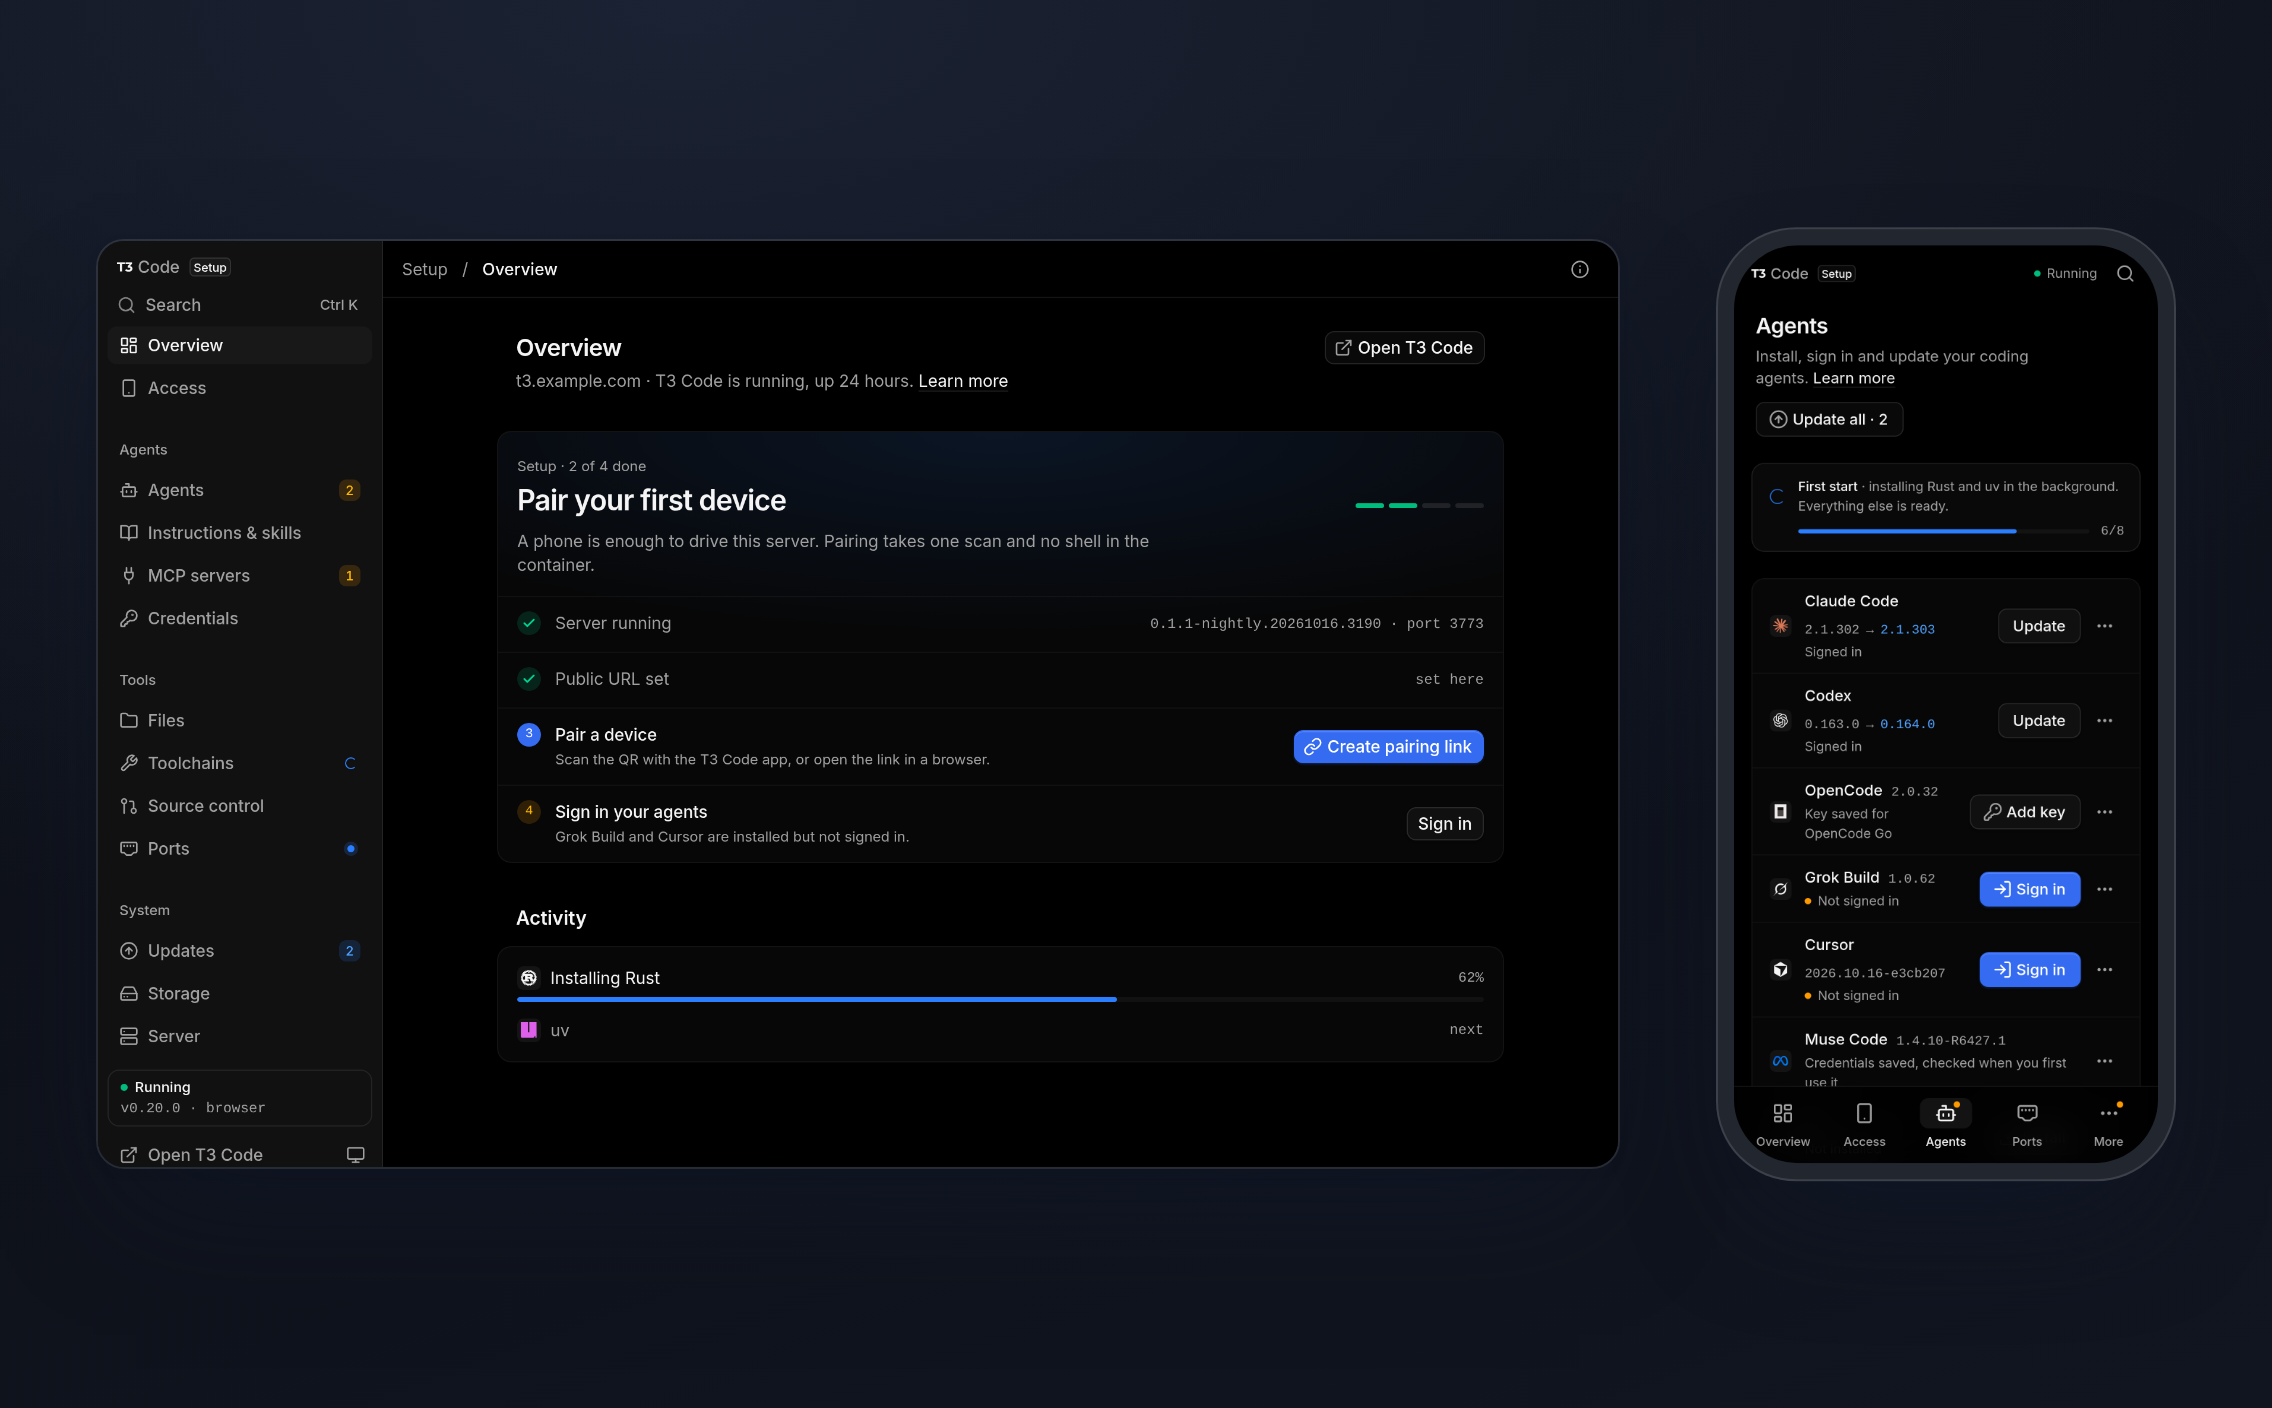
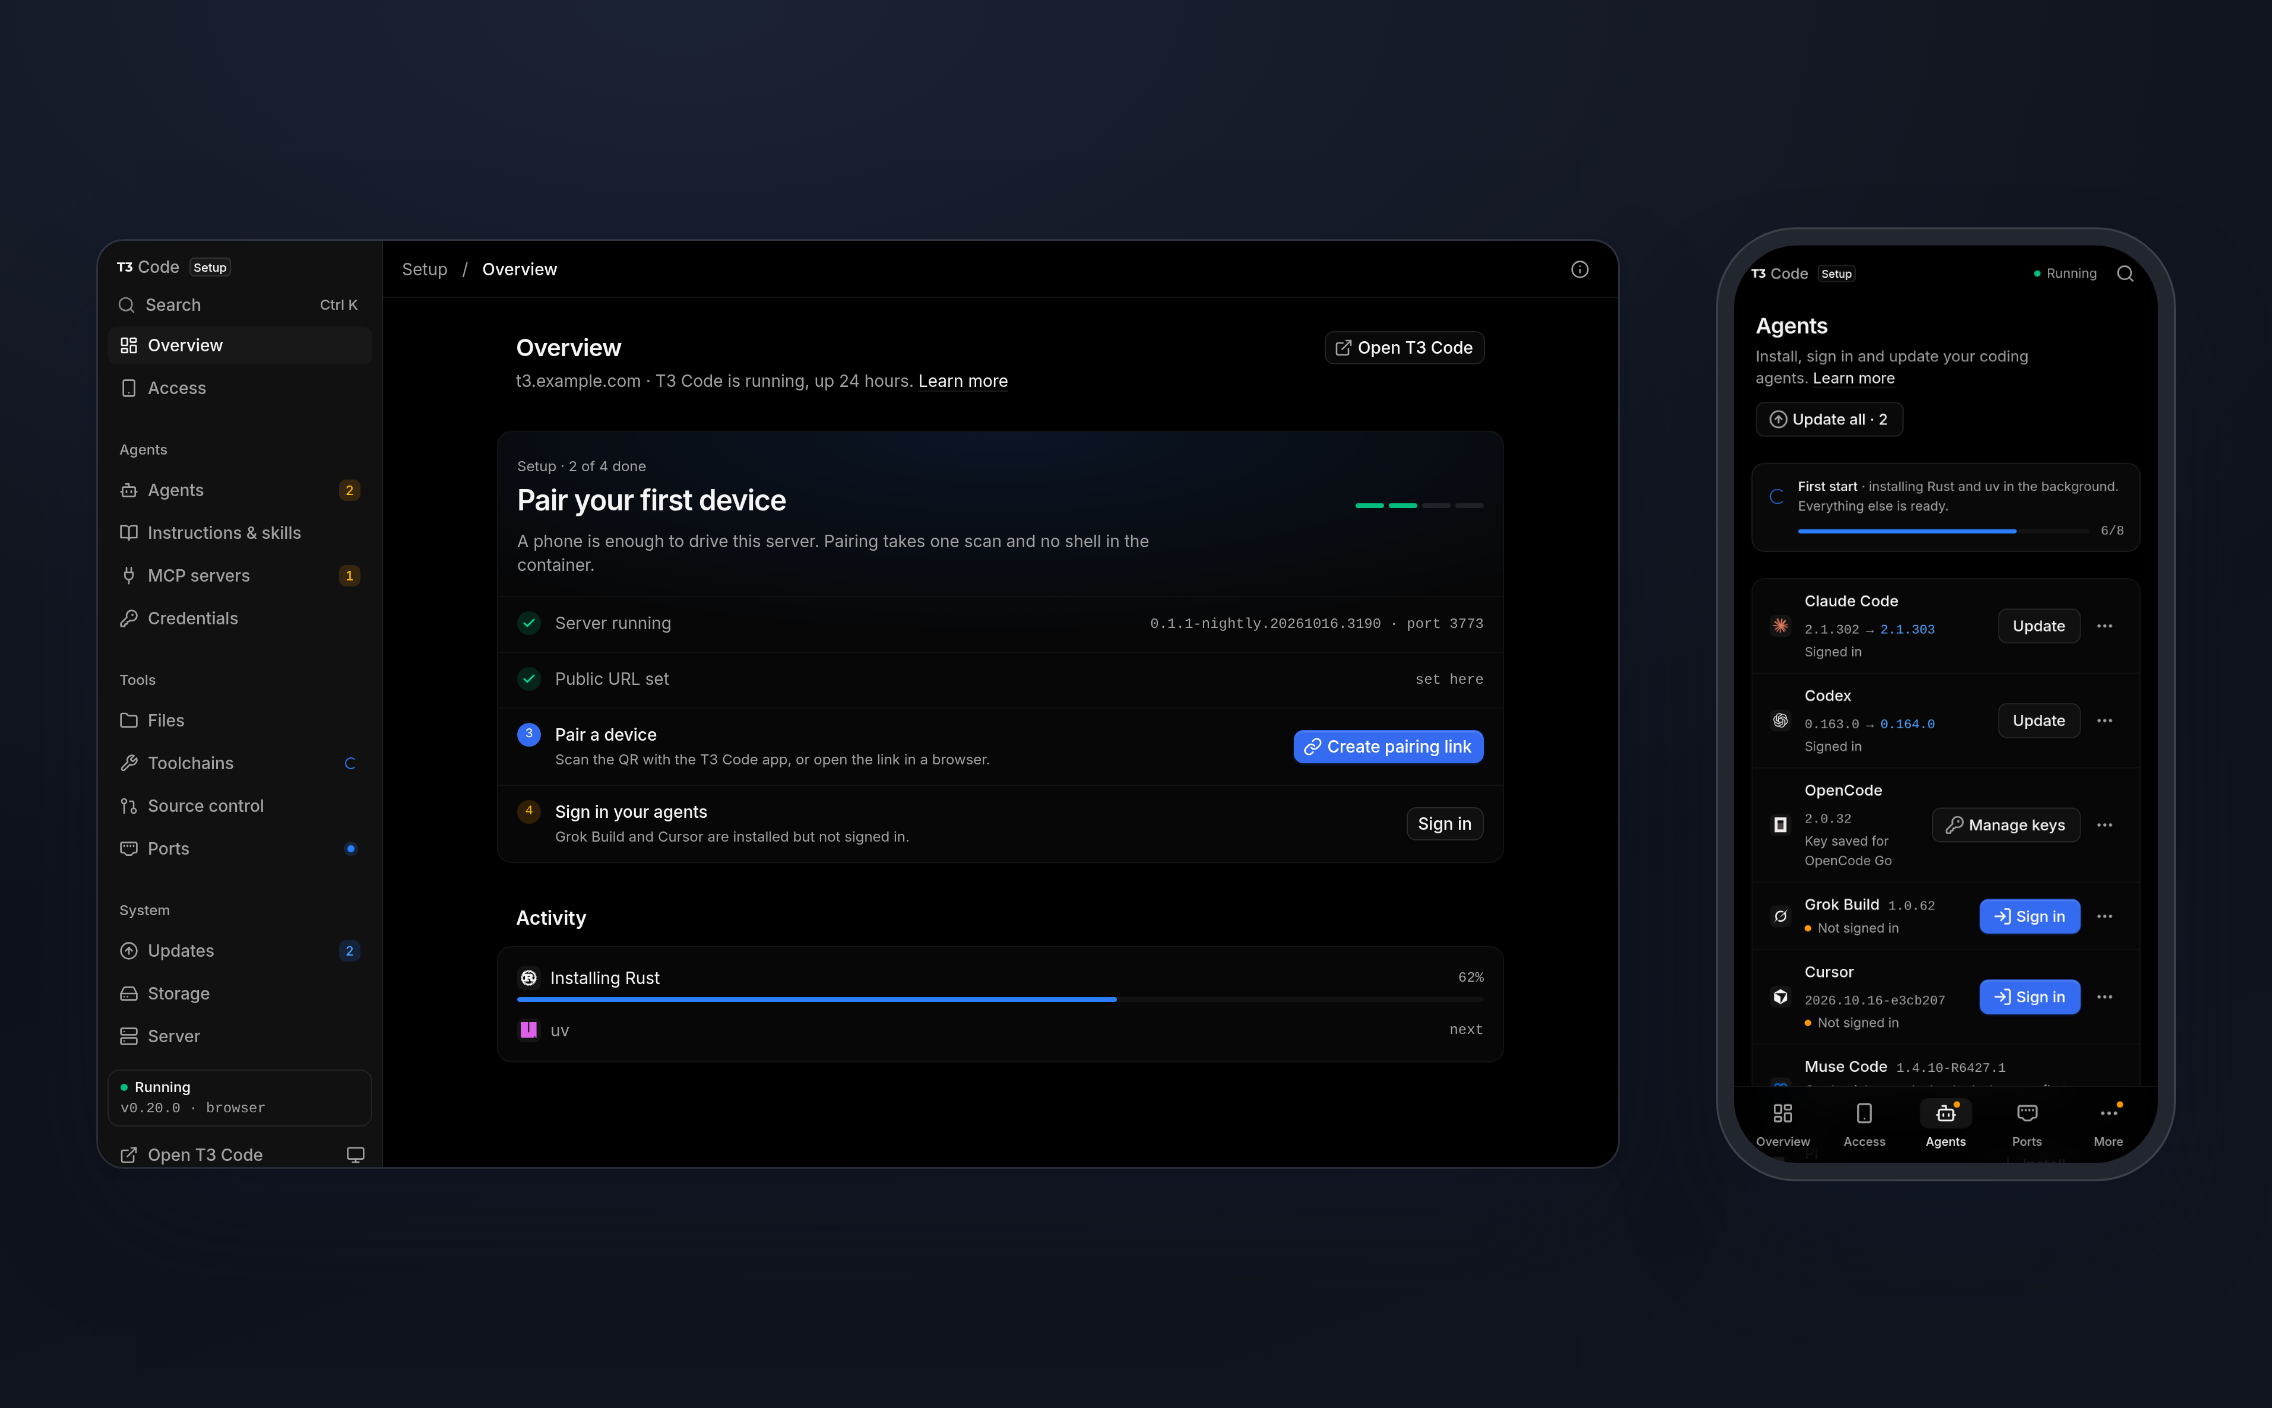
feat(agents): say Manage keys once a provider key is saved
OpenCode and Pi take a key per provider, and their sheet also lists and
removes saved keys. The row's button read "Add key" even with keys saved;
it now reads "Manage keys" once OpenCode or Pi's auth.json holds one, and
"Add key" until then. Keys in Pi's environment don't count: the sheet
cannot change them.

The README picture shows OpenCode's row, so it is regenerated.

Changed region(s): [[0.7812, 0.5625, 0.9375, 0.7812]]

diff --git a/docker/setup/app.js b/docker/setup/app.js
@@ -131,8 +131,10 @@
     portsBusy,
     expandedPorts,
     providerNames: [],
-    // Pi's providers with a credential, saved or from the environment.
+    // Pi's providers with a credential, saved or from the environment, and
+    // how many of them auth.json holds.
     piNames: [],
+    piSaved: 0,
     signingIn: null,
     // A source control CLI being signed out, while its request runs.
     signingOut: null,
@@ -351,6 +353,7 @@
         const credentials = res.data.credentials || {};
         const ids = [...new Set([...(credentials.saved || []).map((entry) => entry.provider), ...(credentials.env || []).map((entry) => entry.provider)])];
         ui.piNames = ids.map((id) => names[id] || id).sort((a, b) => a.localeCompare(b));
+        ui.piSaved = (credentials.saved || []).length;
       } else {
         state.piProviders = { ...(state.piProviders || {}), credentials: { ...(state.piProviders?.credentials || {}), error: res.error || 'Pi’s saved sign-ins could not be read.' } };
       }
@@ -363,7 +366,7 @@
     const seen = pi && pi.installed ? String(pi.signedIn) + ':' + (pi.installedVersion || pi.version || '') : null;
     if (seen === piSeen) return;
     piSeen = seen;
-    if (seen === null) { ui.piNames = []; return; }
+    if (seen === null) { ui.piNames = []; ui.piSaved = 0; return; }
     loadPiProviders().then(() => { render(); renderKeySheet(); });
   };
 

diff --git a/docker/setup/client/model.js b/docker/setup/client/model.js
@@ -431,8 +431,12 @@ const T3Model = (() => {
       row.status.text = !isKey || !names.length ? signedInAs(h)
         : meta.subscription ? 'Signed in to ' + listOf(names)
           : (names.length === 1 ? 'Key saved for ' : 'Keys saved for ') + listOf(names);
+      // Once a provider key is saved, the same sheet adds, lists and removes
+      // keys, so the button says so. Pi's environment keys and models.json
+      // providers are not saved keys: there is nothing to manage for them.
+      const saved = h.id === 'pi' ? (ui && ui.piSaved) || 0 : names.length;
       if (updateAvailable) row.action = { cmd: 'harness.update', label: 'Update' };
-      else if (isKey) row.action = { cmd: 'harness.apikey', label: 'Add key', icon: 'key-round' };
+      else if (isKey) row.action = { cmd: 'harness.apikey', label: saved ? 'Manage keys' : 'Add key', icon: 'key-round' };
     }
     row.notice = distinctNotice(notice, row.status);
     row.held = null;
